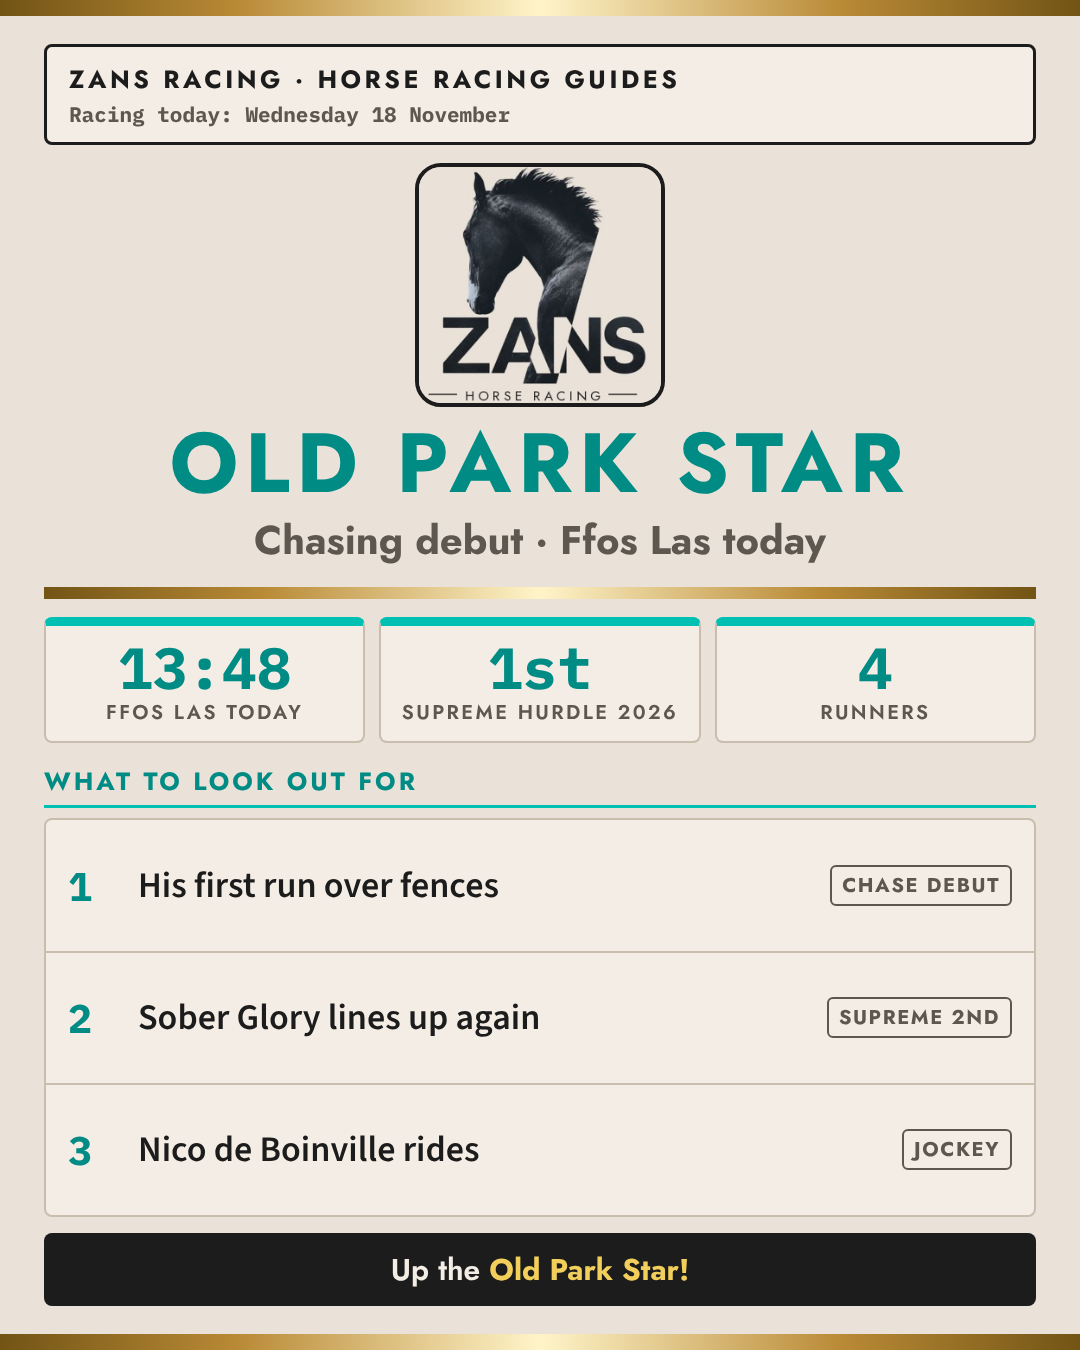
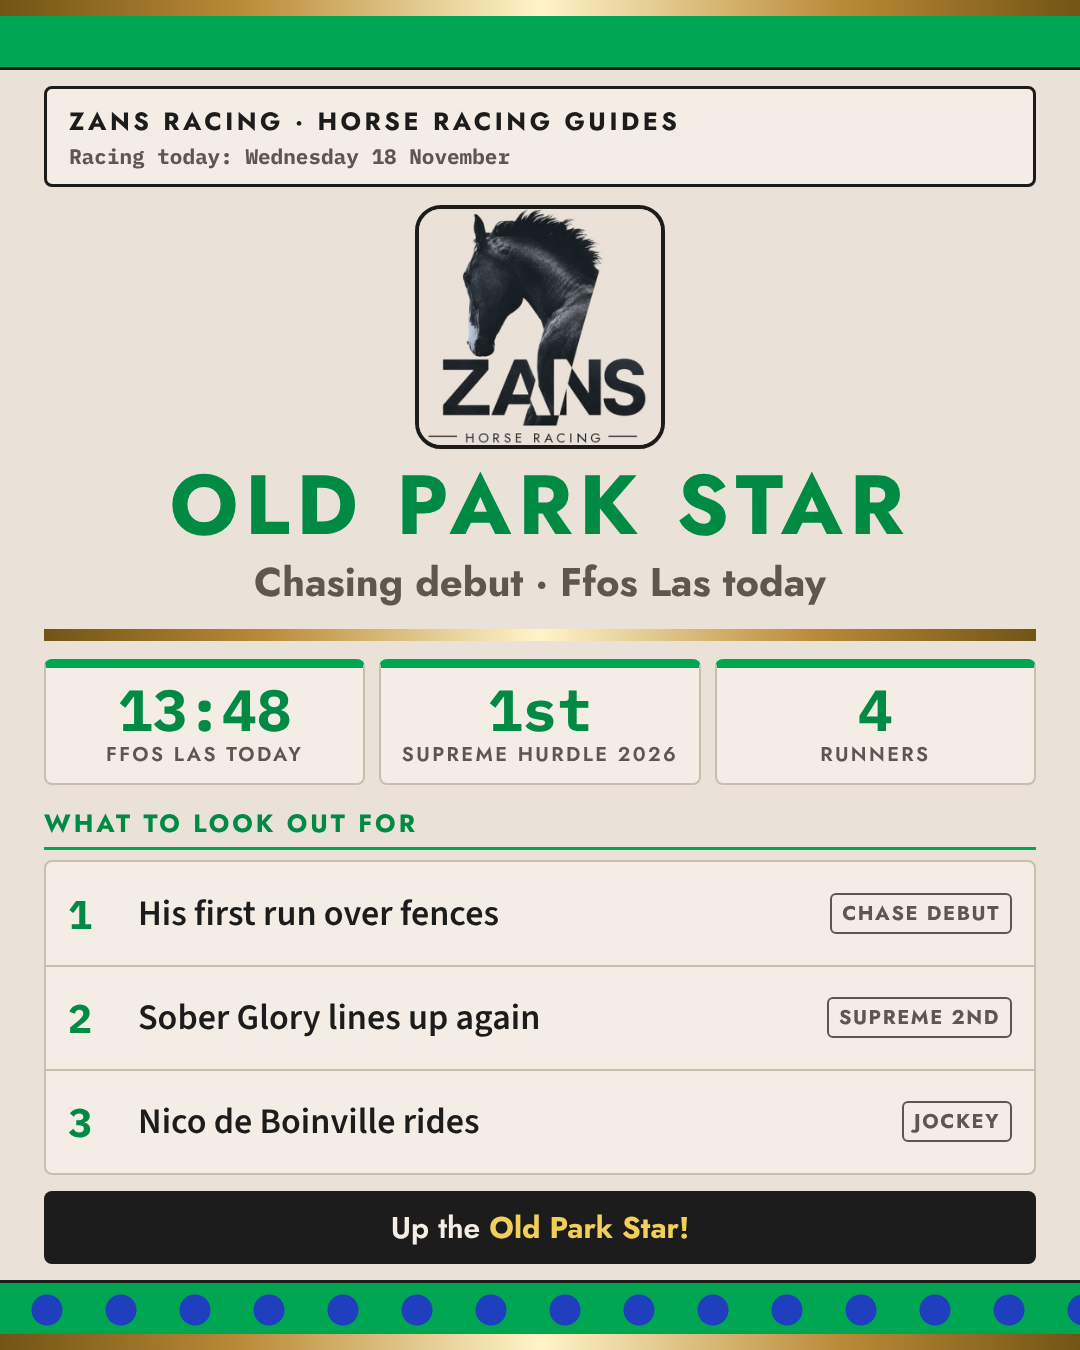
Old Park Star: silks bands (emerald, royal blue spots, emerald cap) and silks-matched colour
Claude-Session: https://claude.ai/code/session_012o9aG5DgvmXWZHsMc4KE4d

Changed region(s): [[0.0, 0.0, 1.0, 0.7156], [0.0, 0.8089, 1.0, 0.9956], [0.0611, 0.7467, 0.0917, 0.7778]]

diff --git a/templates/guide_cards.js b/templates/guide_cards.js
@@ -97,6 +97,11 @@ function body(P, s) {
   if (s.type === 'stat') mid = `<div style="flex:1;display:flex;flex-direction:column;justify-content:center;border-top:3px solid #1C1C1C;margin-top:14px"><div class="huge">${esc(s.figure)}</div><div class="hsub">${esc(s.figsub)}</div><div class="dots">${Array.from({ length: s.dots[0] }, (_, i) => `<i class="${s.dots[1].includes(i) ? 'on' : ''}"></i>`).join('')}</div>${s.lines.map(l => `<div class="ln">${esc(l)}</div>`).join('')}</div>`;
   return head + `<div class="panel">${title}${mid}</div><div class="strip">${s.strip}</div><div class="src">${esc(P.source)}</div>` + foot(P);
 }
+// Silks bands for single-horse posts (as on the bauble hook cards): cap colour under the top metal strip, silks with their pattern above the bottom one.
+function bands(P) { if (!P.silks) return ''; const S = P.silks;
+  const pat = S.pattern === 'spots' ? `background:${S.body};background-image:radial-gradient(circle,${S.second} 0 15px,transparent 16px);background-size:74px 54px;background-position:10px 0`
+    : S.pattern === 'hoops' ? `background:repeating-linear-gradient(90deg,${S.body} 0 60px,${S.second} 60px 120px)` : `background:${S.body}`;
+  return `<div style="position:absolute;left:0;right:0;top:16px;height:54px;background:${S.cap};border-bottom:3px solid #1C1C1C"></div><div style="position:absolute;left:0;right:0;bottom:16px;height:54px;${pat};border-top:3px solid #1C1C1C"></div>`; }
 (async () => {
   const out = process.argv[2] || 'out'; fs.mkdirSync(out, { recursive: true });
   const posts = JSON.parse(fs.readFileSync(path.join(T, 'guide_posts.json'), 'utf8')); const only = process.argv.slice(3);
@@ -104,7 +109,7 @@ function body(P, s) {
   for (const [key, P] of Object.entries(posts)) { if (only.length && !only.includes(key)) continue;
     const ON = lum(P.colour) > 0.6 ? '#1C1C1C' : '#FFFFFF';
     for (let i = 0; i < P.slides.length; i++) {
-      const html = `<html><head><meta charset="utf-8"><style>${css(P.colour, ON, P.text || P.colour)}</style></head><body><div class="metal" style="top:0"></div><div class="wrap">${body(P, P.slides[i])}</div><div class="metal" style="bottom:0"></div></body></html>`;
+      const html = `<html><head><meta charset="utf-8"><style>${css(P.colour, ON, P.text || P.colour)}</style></head><body><div class="metal" style="top:0"></div>${bands(P)}<div class="wrap" style="${P.silks ? 'top:86px;bottom:86px' : ''}">${body(P, P.slides[i])}</div><div class="metal" style="bottom:0"></div></body></html>`;
       await pg.setContent(html); await pg.evaluate(() => document.fonts.ready);
       const over = await pg.evaluate(() => { const w = document.querySelector('.wrap'); return w.scrollHeight - w.clientHeight; });
       const f = path.join(out, `${key}-${i + 1}.png`); await pg.screenshot({ path: f }); console.log(f, over > 0 ? `OVERFLOW ${over}px` : 'ok');
